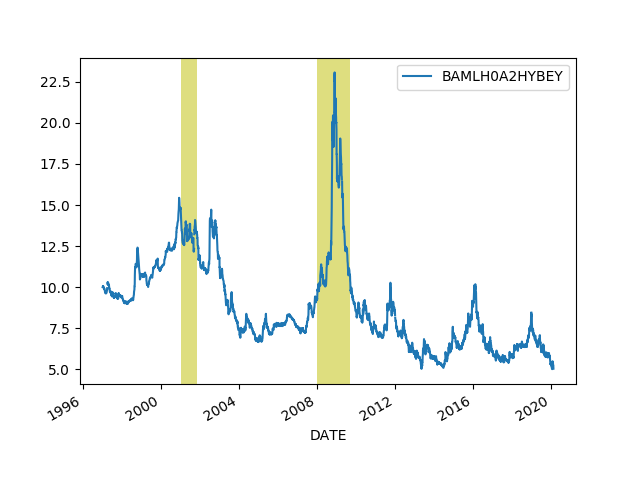
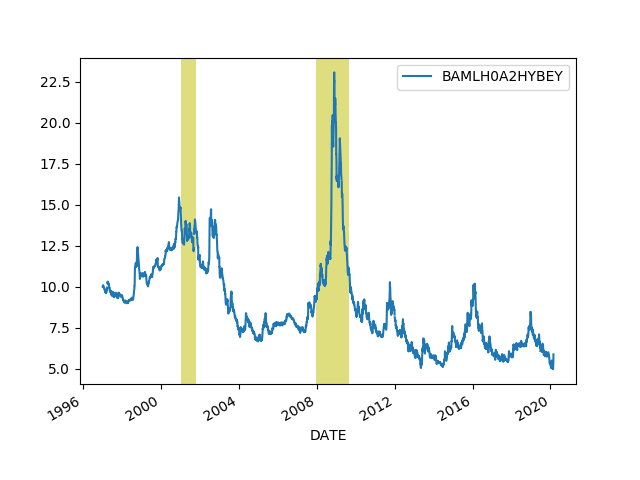
-

diff --git a/en/2019/05/stats.md b/en/2019/05/stats.md
@@ -518,10 +518,22 @@ start=datetime.datetime(1980, 1, 1)
 end=datetime.datetime(today.year, today.month, today.day)
 cols = ['BAMLH0A2HYBEY']
 df = data.DataReader(cols, 'fred', start, end)
+print (df.tail(6))
 df.plot()
 plt.axvspan('01-03-2001', '27-10-2001', color='y', alpha=0.5, lw=0)
 plt.axvspan('22-12-2007', '09-05-2009', color='y', alpha=0.5, lw=0)
 plt.savefig('junkbond.png')
+```
+
+```text
+            BAMLH0A2HYBEY
+DATE                     
+2020-02-20           4.99
+2020-02-21           4.98
+2020-02-24           5.30
+2020-02-25           5.42
+2020-02-26           5.51
+2020-02-27           5.86
 ```
 
 ![](junkbond.png)
